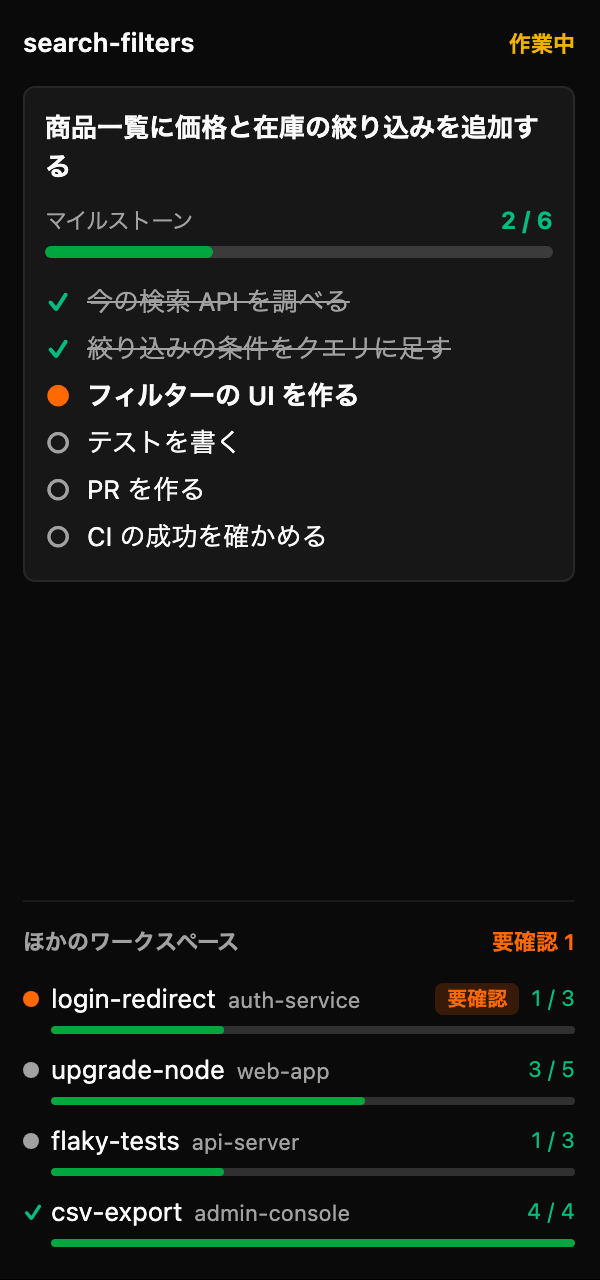
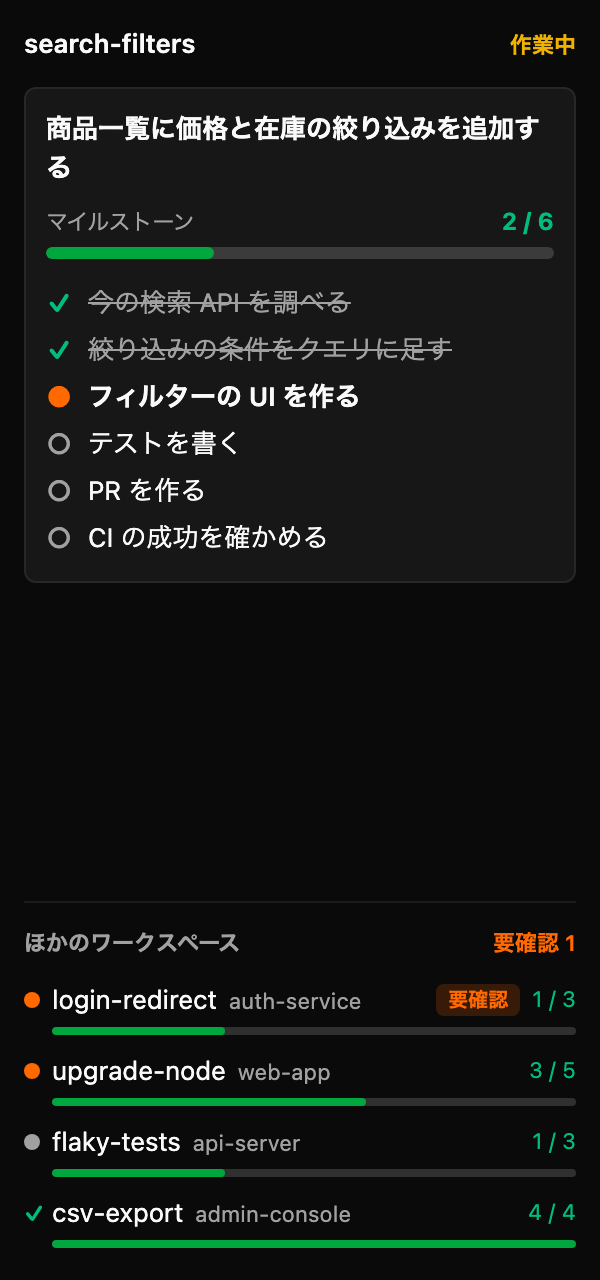
Mark workspaces with a task in progress with an orange dot
A row of the other workspaces whose newest list has a task in progress now
shows an orange dot, the colour of that task's mark in the list, so work
going on stands apart from work left waiting. The sample data puts a task
in progress in one workspace and the screenshots are taken again.

diff --git a/README.md b/README.md
@@ -24,7 +24,7 @@
 - ワークスペースを切り替えると、表示もそのワークスペースのものに変わります。
 - パネルの下端に「ほかのワークスペース」として、Orca で動いているほかの Claude を並べます（最大 8 件）。
   - 要確認（入力待ち・許可待ち）のものを先頭に、オレンジの「要確認」を付けて出します。次に、タスクが残っているもの、すべて完了したものの順に、それぞれタスクが新しく動いた順で出します。作業中かどうかは出しません（ターンごとに変わり、そのたびにパネルが作り直されるため）。
-  - 各行は、印（要確認はオレンジの点、タスクがすべて完了したものは緑のチェック、ほかはグレーの点）、ワークスペース名（横に小さくプロジェクト名）と、いちばん新しいタスク一覧の進捗バー・完了数です。行にマウスを乗せると、ワークスペース名・ゴール・タスクの一覧が行の上に重なって出ます。
+  - 各行は、印（要確認と、実行中のタスクがあるものはオレンジの点、タスクがすべて完了したものは緑のチェック、ほかはグレーの点）、ワークスペース名（横に小さくプロジェクト名）と、いちばん新しいタスク一覧の進捗バー・完了数です。行にマウスを乗せると、ワークスペース名・ゴール・タスクの一覧が行の上に重なって出ます。
   - 行をクリックしてそのワークスペースへ移ることはできません（パネルから Orca を操作する API がないため）。
 - タスク一覧は、その Claude セッションが動いている間だけ表示します。セッションを終了したり、ワークスペースを削除したりすると消えます。動いているセッションは、Claude が `~/.claude/sessions/<pid>.json` に書く情報で判断します。
 - Claude はすべてのタスクを完了するとタスク一覧のファイルを消しますが、この plugin はセッションが動いている間、完了した状態のまま表示を残します。plugin を再起動した後も、transcript に残る TaskCreate / TaskUpdate の記録から組み立て直します。
